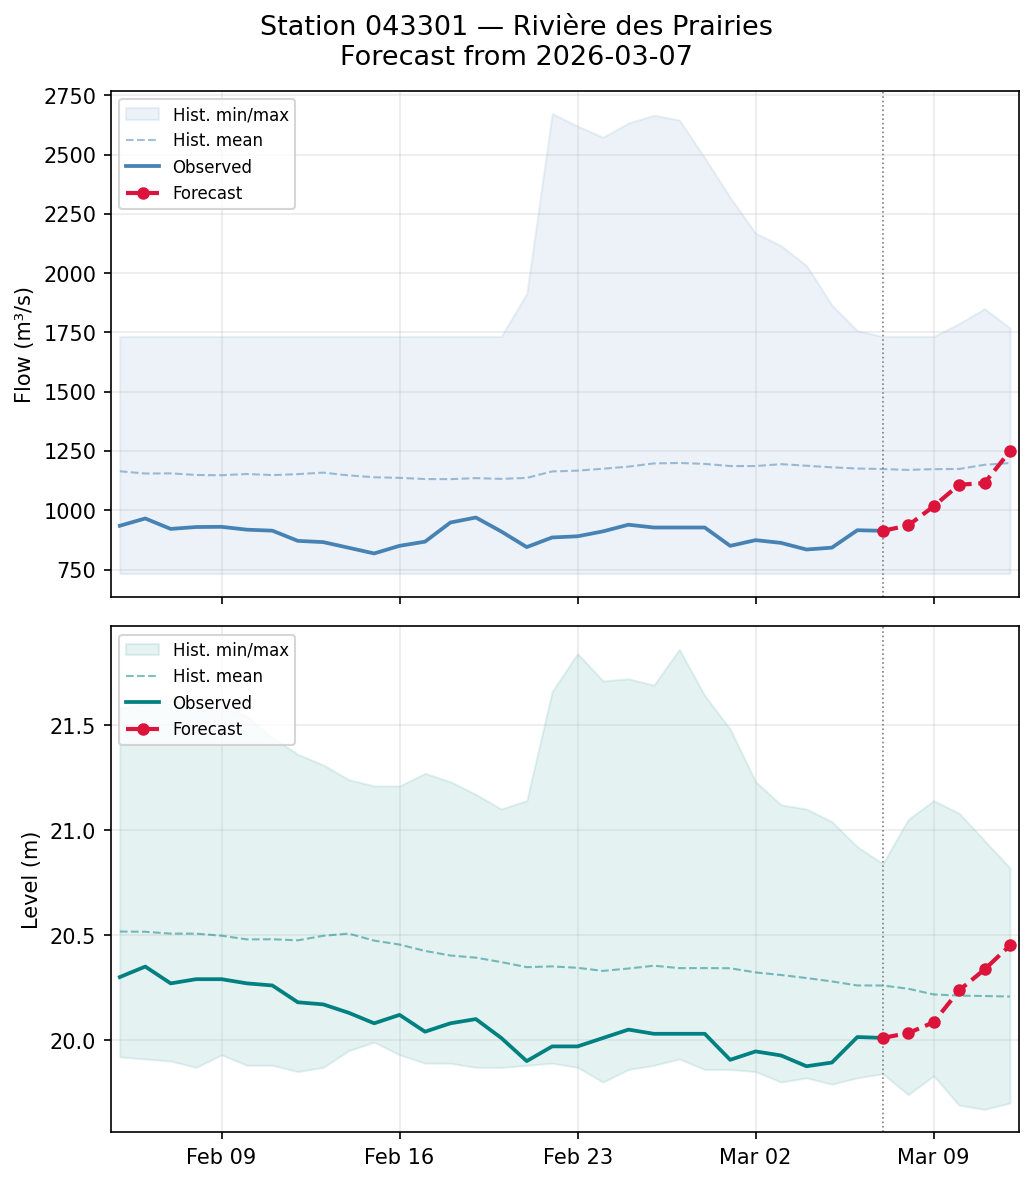
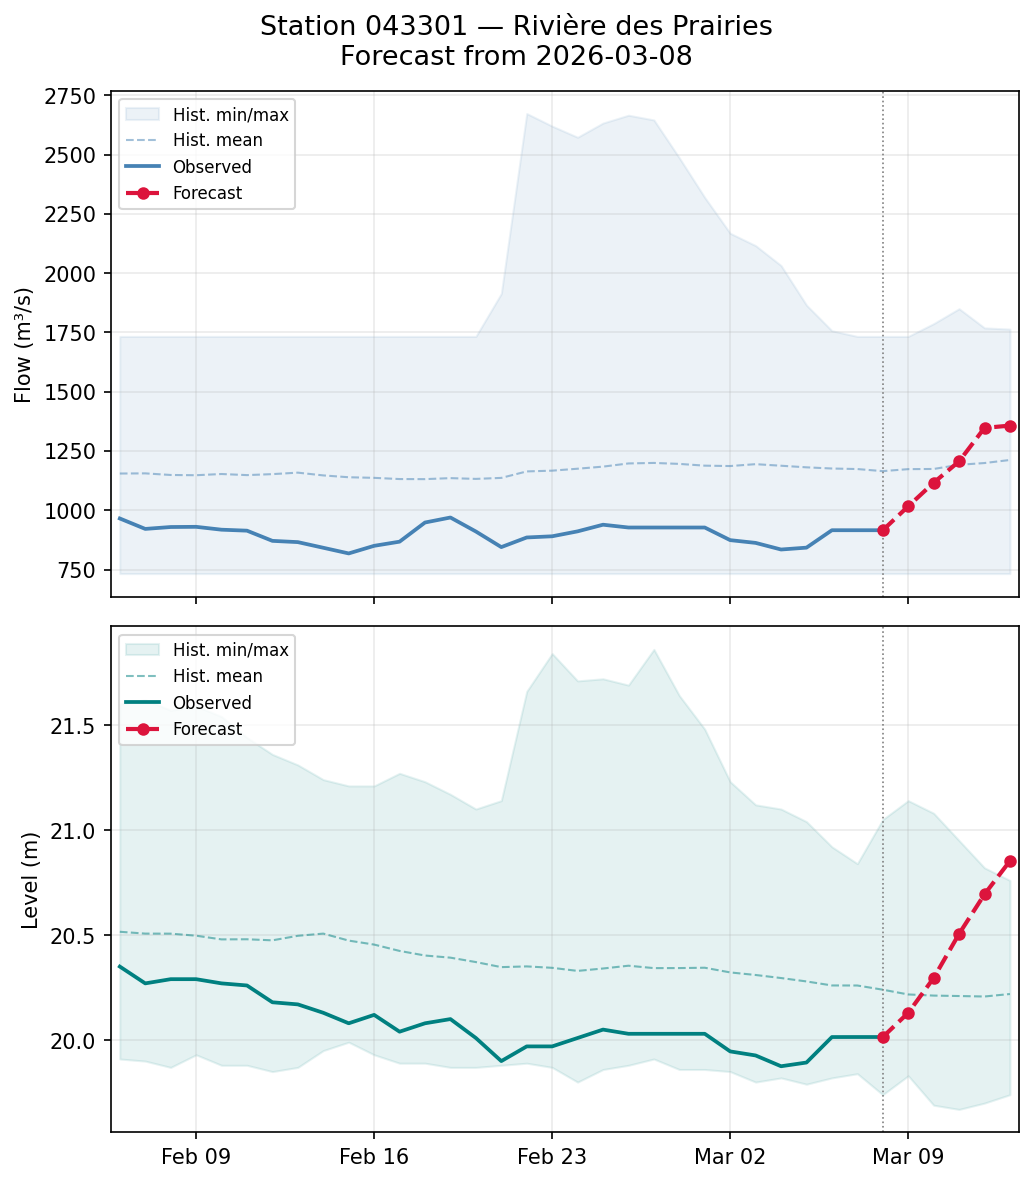
feat: add 3 CGM upstream stations as model inputs (39_RDP09, 01_RDP11, 11_LDM01)
- New src/load_cgm.py: fetches level + flow from cruesgrandmontreal.ca API
  for 3 upstream RDP/LDM stations; builds/updates data/cgm_daily.parquet cache
  with daily means; also provides 5-day CGM forecast
- features.py: 6 new base columns (level+flow × 3 stations) + lags + rolling
  means (3/7/14d) + 5-day perfect-forecast proxy (30 forecast features);
  222 total features (up from 120)
- predict.py: injects real CGM forecast at inference time via _inject_cgm_forecast()
- daily_forecast.sh: refreshes CGM cache before each forecast run
- Model retrained; CGM features will gain importance as cache accumulates

diff --git a/src/load_cgm.py b/src/load_cgm.py
@@ -1,0 +1,129 @@
+"""
+CMM upstream station loader — cruesgrandmontreal.ca API.
+
+Fetches hourly level (m) and flow (m³/s) for three upstream stations on the
+Rivière des Prairies / Lac des Deux Montagnes system, all upstream of 043301:
+
+  39_RDP09  Rue Marceau, Pierrefonds-Roxboro      (~0.8 km upstream)
+  01_RDP11  Parc Terrasse-Sacré-Cœur, Île-Bizard  (~3.5 km upstream)
+  11_LDM01  Parc Philippe-Lavallée, Oka            (~22 km upstream, Ottawa River inflow)
+
+Source: GET https://www.cruesgrandmontreal.ca/api/stationsGeoJSON
+  - forcast array: indices 0–239  = 240 hourly history points (60-min intervals)
+  -                indices 242–313 = 72 hourly forecast points
+  - Updated every ~6 hours by CMM; no authentication required
+
+Public API:
+    load_cgm_history(cache)   -> pd.DataFrame  daily means, indexed by date
+    load_cgm_forecast(n_days) -> pd.DataFrame  daily mean forecast, indexed by date
+"""
+
+import numpy as np
+import pandas as pd
+import requests
+from pathlib import Path
+
+DATA_DIR   = Path(__file__).parent.parent / "data"
+CACHE_PATH = DATA_DIR / "cgm_daily.parquet"
+CGM_URL    = "https://www.cruesgrandmontreal.ca/api/stationsGeoJSON"
+
+# station_id -> (level_col, flow_col)
+STATIONS = {
+    "39_RDP09": ("rdp09_level_m", "rdp09_flow_m3s"),
+    "01_RDP11": ("rdp11_level_m", "rdp11_flow_m3s"),
+    "11_LDM01": ("ldm01_level_m", "ldm01_flow_m3s"),
+}
+
+# All CGM column names in order
+CGM_COLS = [col for pair in STATIONS.values() for col in pair]
+
+
+def _fetch_raw() -> dict:
+    r = requests.get(CGM_URL, timeout=30)
+    r.raise_for_status()
+    return {f["properties"]["id"]: f for f in r.json()["features"]}
+
+
+def _station_hourly(feat: dict, slice_start: int, slice_end: int) -> pd.DataFrame:
+    """Extract hourly level + flow for one station from the forcast array slice."""
+    t0    = pd.Timestamp(feat["niveau"]["t0_history"])
+    level = np.array(feat["niveau"]["forcast"][slice_start:slice_end], dtype=float)
+    flow  = np.array(feat["debit"]["forcast"][slice_start:slice_end],  dtype=float)
+    level[level == -99999] = np.nan
+    flow[flow   == -99999] = np.nan
+    idx = pd.date_range(t0 + pd.Timedelta(hours=slice_start), periods=len(level), freq="h")
+    return pd.DataFrame({"level_m": level, "flow_m3s": flow}, index=idx)
+
+
+def _build_daily(raw: dict, slice_start: int, slice_end: int) -> pd.DataFrame:
+    """Combine all three stations into a daily-mean DataFrame (tz-naive UTC dates)."""
+    dfs = []
+    for sid, (level_col, flow_col) in STATIONS.items():
+        hourly = _station_hourly(raw[sid], slice_start, slice_end)
+        daily  = hourly.resample("D").mean()
+        daily.columns = [level_col, flow_col]
+        dfs.append(daily)
+    merged = pd.concat(dfs, axis=1)
+    merged.index = merged.index.tz_localize(None)  # strip tz to match other data sources
+    merged.index.name = "date"
+    return merged
+
+
+def load_cgm_history(cache: bool = True) -> pd.DataFrame:
+    """
+    Load daily CGM history for all three upstream stations.
+
+    When cache=True and cache exists: return cached data.
+    When cache=False or no cache: fetch API, extract the last 10 days of
+    hourly history, resample to daily means, merge with existing cache.
+
+    Returns DataFrame indexed by date with columns:
+      rdp09_level_m, rdp09_flow_m3s,
+      rdp11_level_m, rdp11_flow_m3s,
+      ldm01_level_m, ldm01_flow_m3s
+    """
+    if cache and CACHE_PATH.exists():
+        print(f"Loading CGM from cache: {CACHE_PATH}")
+        df = pd.read_parquet(CACHE_PATH)
+        print(f"Loaded {len(df)} CGM days from {df.index.min().date()} to {df.index.max().date()}")
+        return df
+
+    print("Fetching CGM upstream station data...")
+    raw      = _fetch_raw()
+    new_data = _build_daily(raw, slice_start=0, slice_end=240)
+
+    if CACHE_PATH.exists():
+        existing = pd.read_parquet(CACHE_PATH)
+        combined = pd.concat([existing, new_data])
+        combined = combined[~combined.index.duplicated(keep="last")].sort_index()
+    else:
+        combined = new_data
+
+    DATA_DIR.mkdir(parents=True, exist_ok=True)
+    combined.to_parquet(CACHE_PATH)
+    print(f"CGM cache saved: {len(combined)} days from "
+          f"{combined.index.min().date()} to {combined.index.max().date()}")
+    return combined
+
+
+def load_cgm_forecast(n_days: int = 5) -> pd.DataFrame:
+    """
+    Fetch daily mean CGM upstream forecasts for the next n_days.
+
+    Returns DataFrame indexed by forecast date with same columns as
+    load_cgm_history().
+    """
+    raw    = _fetch_raw()
+    daily  = _build_daily(raw, slice_start=242, slice_end=314)
+    result = daily.head(n_days)
+    print(f"Loaded {len(result)}-day CGM forecast: "
+          f"{result.index[0].date()} → {result.index[-1].date()}")
+    return result
+
+
+if __name__ == "__main__":
+    hist = load_cgm_history(cache=False)
+    print(hist.tail(5).to_string())
+    print()
+    fc = load_cgm_forecast()
+    print(fc.to_string())

diff --git a/src/features.py b/src/features.py
@@ -20,6 +20,7 @@ sys.path.insert(0, str(Path(__file__).parent))
 
 from load_data import load_flow, load_level, load_upstream_level
 from load_climate import load_climate
+from load_cgm import load_cgm_history, CGM_COLS
 
 DAM_ERA_START = "1978-01-01"
 
@@ -27,7 +28,10 @@ DAM_ERA_START = "1978-01-01"
 LAG_DAYS = [1, 2, 3, 4, 5, 7, 14, 30]
 
 # Variables to lag
-LAG_VARS_HYDRO = ["flow_m3s", "level_m", "upstream_level_m", "temperature_2m_mean", "precipitation_sum", "rain_sum"]
+LAG_VARS_HYDRO = [
+    "flow_m3s", "level_m", "upstream_level_m",
+    "temperature_2m_mean", "precipitation_sum", "rain_sum",
+] + CGM_COLS
 
 
 def _add_lag_features(df: pd.DataFrame) -> pd.DataFrame:
@@ -61,6 +65,13 @@ def _add_rolling_features(df: pd.DataFrame) -> pd.DataFrame:
         new_cols[f"upstream_level_roll_mean_{suffix}"] = df["upstream_level_m"].rolling(window, min_periods=1).mean()
     for window, suffix in [(3, "3d"), (7, "7d"), (14, "14d")]:
         new_cols[f"upstream_level_roll_max_{suffix}"] = df["upstream_level_m"].rolling(window, min_periods=1).max()
+
+    # CGM upstream station rolling features
+    for col in CGM_COLS:
+        if col not in df.columns:
+            continue
+        for window, suffix in [(3, "3d"), (7, "7d"), (14, "14d")]:
+            new_cols[f"{col}_roll_mean_{suffix}"] = df[col].rolling(window, min_periods=1).mean()
 
     # Climate rolling features
     for window, suffix in [(7, "7d"), (14, "14d"), (30, "30d")]:
@@ -156,6 +167,26 @@ def _add_forecast_features(df: pd.DataFrame) -> pd.DataFrame:
     return pd.concat([df, pd.DataFrame(new_cols, index=df.index)], axis=1)
 
 
+def _add_cgm_forecast_features(df: pd.DataFrame) -> pd.DataFrame:
+    """
+    Add 5-day CGM upstream forecast features.
+
+    During training, observed future values serve as a perfect-forecast proxy
+    (e.g. rdp09_level_m_forecast_t1 = tomorrow's actual rdp09 level).
+    At inference time, predict.py replaces these with real CGM forecast values.
+
+    Most training rows will be NaN (CGM cache only covers recent days);
+    LightGBM handles missing values natively.
+    """
+    new_cols = {}
+    for col in CGM_COLS:
+        if col not in df.columns:
+            continue
+        for h in range(1, 6):
+            new_cols[f"{col}_forecast_t{h}"] = df[col].shift(-h)
+    return pd.concat([df, pd.DataFrame(new_cols, index=df.index)], axis=1)
+
+
 def _add_targets(df: pd.DataFrame) -> pd.DataFrame:
     new_cols = {}
     for h in range(1, 6):
@@ -180,8 +211,13 @@ def build_dataset(drop_incomplete: bool = True) -> tuple[pd.DataFrame, pd.DataFr
     level = load_level()[["level_m"]]
     upstream = load_upstream_level()[["upstream_level_m"]]
     climate = load_climate()
+    cgm = load_cgm_history()
 
-    df = flow.join(level, how="outer").join(upstream, how="outer").join(climate, how="outer")
+    df = (flow
+          .join(level,    how="outer")
+          .join(upstream, how="outer")
+          .join(climate,  how="outer")
+          .join(cgm,      how="outer"))
     df.index.name = "date"
     df = df.sort_index()
 
@@ -198,6 +234,7 @@ def build_dataset(drop_incomplete: bool = True) -> tuple[pd.DataFrame, pd.DataFr
     df = _add_seasonal_features(df)
     df = _add_flow_anomaly(df)
     df = _add_forecast_features(df)
+    df = _add_cgm_forecast_features(df)
 
     # ── 3. Build targets ────────────────────────────────────────────────────
     df = _add_targets(df)

diff --git a/src/predict.py b/src/predict.py
@@ -18,6 +18,7 @@ sys.path.insert(0, str(Path(__file__).parent))
 from features import build_dataset
 from model import load_model
 from load_forecast import load_weather_forecast
+from load_cgm import load_cgm_forecast, CGM_COLS
 
 MODEL_PATH = Path("models/lgbm_forecast.pkl")
 
@@ -52,6 +53,20 @@ def _inject_weather_forecast(row: pd.DataFrame, wf: pd.DataFrame) -> pd.DataFram
     return row
 
 
+def _inject_cgm_forecast(row: pd.DataFrame, cgm_fc: pd.DataFrame) -> pd.DataFrame:
+    """Replace CGM perfect-forecast proxy columns with real CGM forecast values."""
+    row = row.copy()
+    for h in range(1, 6):
+        if h > len(cgm_fc):
+            break
+        fc = cgm_fc.iloc[h - 1]
+        for col in CGM_COLS:
+            feat = f"{col}_forecast_t{h}"
+            if feat in row.columns and col in fc.index:
+                row[feat] = fc[col]
+    return row
+
+
 def forecast(anchor_date: pd.Timestamp, X: pd.DataFrame) -> pd.DataFrame:
     """
     Generate a 5-day forecast of flow and level from the given anchor date.
@@ -79,6 +94,15 @@ def forecast(anchor_date: pd.Timestamp, X: pd.DataFrame) -> pd.DataFrame:
                 print("Weather forecast injected.")
         except Exception as e:
             print(f"Warning: could not load weather forecast ({e}); using ERA5 proxy.")
+
+        try:
+            cgm_fc = load_cgm_forecast(n_days=5)
+            future_cgm = cgm_fc[cgm_fc.index > anchor_date].head(5)
+            if not future_cgm.empty:
+                row = _inject_cgm_forecast(row, future_cgm)
+                print("CGM upstream forecast injected.")
+        except Exception as e:
+            print(f"Warning: could not load CGM forecast ({e}); using proxy.")
 
     preds = {target: float(model.predict(row)[0]) for target, model in models.items()}
 
